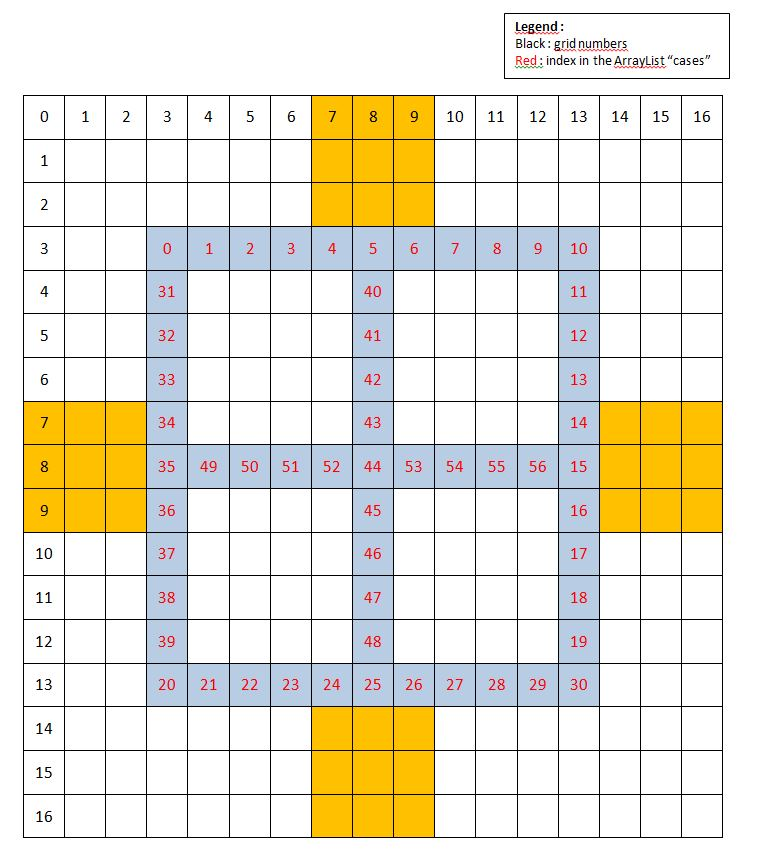
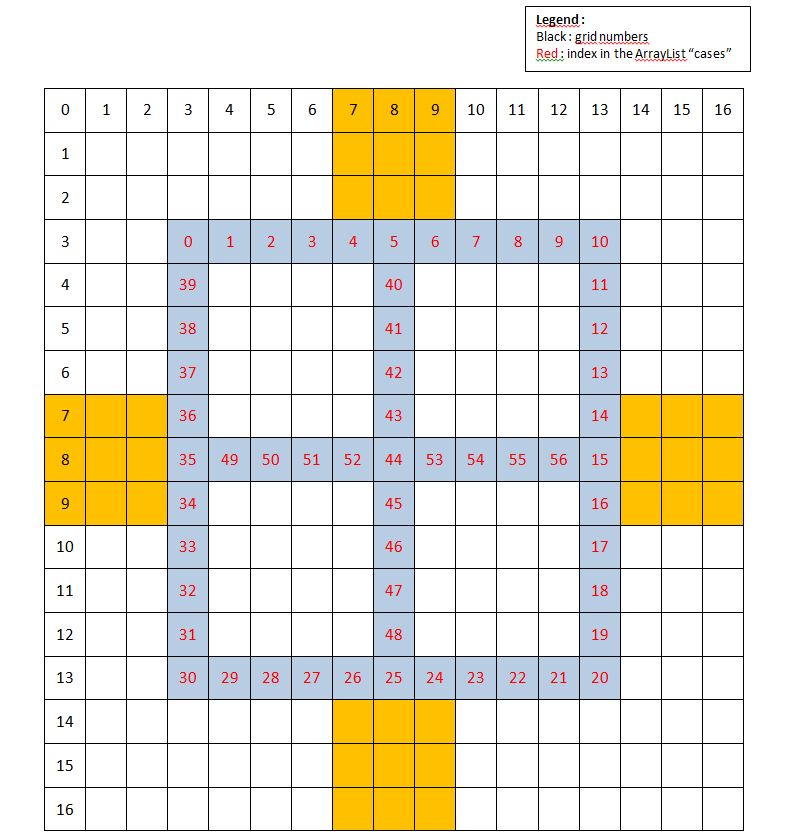
IHMPlateau: ArrayList -> Tableau
Les cabanes et les cases sont stockés dans des tableaux au lieu des
arrayList dans IHMPlateau. Ceci permet d'avoir une numérotation des
indices plus logiques, et de faciliter la gestion des évènements liés
aux touches directionnellles.

Regarder le fichier Docs/documentation du modele de jeu/Emplacement des
cases dans IHMPlateau.JPG pour voir les nouvelles numérotation.

Emplacement (old).JPG est là pour comparaison.

Changed region(s): [[0.0309, 0.0, 0.9575, 0.9928]]

diff --git a/Modele_de_jeu/src/ihm/IHMPlateau.java b/Modele_de_jeu/src/ihm/IHMPlateau.java
@@ -1,7 +1,6 @@
 package ihm;
 
 import java.awt.*;
-import java.util.ArrayList;
 
 import javax.swing.JLabel;
 import javax.swing.JPanel;
@@ -16,12 +15,12 @@ public class IHMPlateau extends JPanel{
 		GridBagConstraints casePos = new GridBagConstraints();
 		GridBagConstraints cabanePos = new GridBagConstraints();
 		
-		ArrayList<IHMCase> cases = new ArrayList<IHMCase>();
-		ArrayList<IHMCabane> cabanes = new ArrayList<IHMCabane>();
+		IHMCase[] cases = new IHMCase[57];
+		IHMCabane[] cabanes = new IHMCabane[4];
 		
 		
 		for(int i=0; i<4; i++) {
-			cabanes.add(new IHMCabane());
+			cabanes[i] = new IHMCabane();
 		}
 		
 		cabanePos.fill = GridBagConstraints.BOTH;
@@ -37,23 +36,23 @@ public class IHMPlateau extends JPanel{
 		cabanePos.gridx = 7;
 		cabanePos.gridy = 0;
 		
-		this.add(cabanes.get(0), cabanePos);
+		this.add(cabanes[0], cabanePos);
 		
 		//Right cabane
 		cabanePos.gridx = 14;
 		cabanePos.gridy = 7;
 		
-		this.add(cabanes.get(1), cabanePos);
+		this.add(cabanes[1], cabanePos);
 		
 		//Bottom cabane
 		cabanePos.gridx = 7;
 		cabanePos.gridy = 14;
-		this.add(cabanes.get(2), cabanePos);
+		this.add(cabanes[2], cabanePos);
 		
 		//Left cabane
 		cabanePos.gridx = 0;
 		cabanePos.gridy = 7;
-		this.add(cabanes.get(3), cabanePos);
+		this.add(cabanes[3], cabanePos);
 		
 		/*
 		 * Emplacement des cases
@@ -61,59 +60,59 @@ public class IHMPlateau extends JPanel{
 			
 		//Top row
 		for(int i=0; i<11; i++) {
-			cases.add(new IHMCase());
+			cases[i] = new IHMCase();
 			casePos.gridx = i+3;
 			casePos.gridy = 3;
-			this.add(cases.get(i), casePos);
+			this.add(cases[i], casePos);
 		}
 		
 		//Right Column
-		for(int i=0; i<9; i++) {
-			cases.add(new IHMCase());
+		for(int i=11; i<20; i++) {
+			cases[i] = new IHMCase();
 			casePos.gridx = 13;
-			casePos.gridy = i+4;
-			this.add(cases.get(i+11), casePos);
+			casePos.gridy = i-7;
+			this.add(cases[i], casePos);
 		}
 		
 		//Bottom Row
-		for(int i=0; i<11; i++) {
-			cases.add(new IHMCase());
+		for(int i=20; i<31; i++) {
+			cases[i] = new IHMCase();
 			casePos.fill = GridBagConstraints.HORIZONTAL;
-			casePos.gridx = i+3;
+			casePos.gridx = 33-i;
 			casePos.gridy = 13;
-			this.add(cases.get(i+20), casePos);
+			this.add(cases[i], casePos);
 		}
 		
 		//Left Column
-		for(int i=0; i<9; i++) {
-			cases.add(new IHMCase());
+		for(int i=31; i<40; i++) {
+			cases[i]= new IHMCase();
 			casePos.gridx = 3;
-			casePos.gridy = i+4;
-			this.add(cases.get(i+31), casePos);
+			casePos.gridy = 43-i;
+			this.add(cases[i], casePos);
 		}
 		
 		//Middle Column
-		for(int i=0; i<9; i++) {
-			cases.add(new IHMCase());
+		for(int i=40; i<49; i++) {
+			cases[i] = new IHMCase();
 			casePos.gridx = 8;
-			casePos.gridy = i+4;
-			this.add(cases.get(i+40), casePos);
+			casePos.gridy = i-36;
+			this.add(cases[i], casePos);
 		}
 		
 		//Middle Left-half Row
-		for(int i=0; i<4; i++) {
-			cases.add(new IHMCase());
-			casePos.gridx = i+4;
+		for(int i=49; i<53; i++) {
+			cases[i] = new IHMCase();
+			casePos.gridx = i-45;
 			casePos.gridy = 8;
-			this.add(cases.get(i+49), casePos);
+			this.add(cases[i], casePos);
 		}
 		
 		//Middle Right-half Row
-		for(int i=0; i<4; i++) {
-			cases.add(new IHMCase());
-			casePos.gridx = i+9;
+		for(int i=53; i<57; i++) {
+			cases[i] = new IHMCase();
+			casePos.gridx = i-44;
 			casePos.gridy = 8;
-			this.add(cases.get(i+53), casePos);
+			this.add(cases[i], casePos);
 		}
 	}
 }
